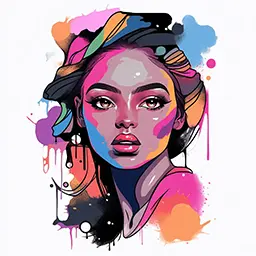
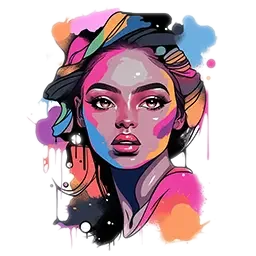
new landing illustrations

diff --git a/src/components/Home/Presentation.js b/src/components/Home/Presentation.js
@@ -24,7 +24,7 @@ function Presentation() {
 					<div className={'flex flex-col items-center justify-center gap-2'}>
 						<Image
 							alt={'client à la recherche de maquilleuse'}
-							src={'/assets/vectorials-used/004-deal.svg'}
+							src={'/assets/illustrations/illustration.webp'}
 							width={'140'}
 							height={'140'}
 						/>
@@ -42,7 +42,7 @@ function Presentation() {
 					<div className={'flex flex-col items-center justify-center gap-2'}>
 						<Image
 							alt={'des maquilleuses passionnées aux multiples compétences'}
-							src={'/assets/vectorials-used/008-increase.svg'}
+							src={'/assets/illustrations/illustration_2.webp'}
 							width={'140'}
 							height={'140'}
 						/>
@@ -62,7 +62,7 @@ function Presentation() {
 							alt={
 								'une solution dédiée pour collaborer entre particuliers et maquilleuses'
 							}
-							src={'/assets/vectorials-used/013-presentation.svg'}
+							src={'/assets/illustrations/illustration_3.webp'}
 							width={'140'}
 							height={'140'}
 						/>
